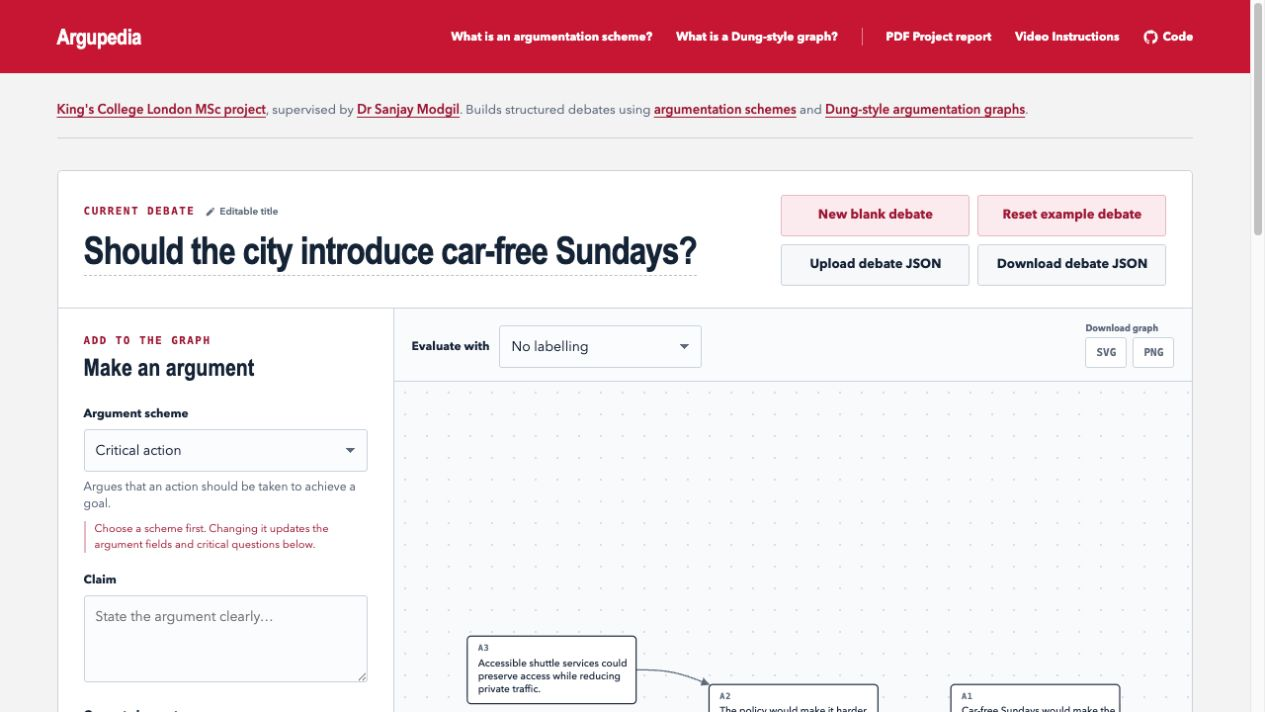
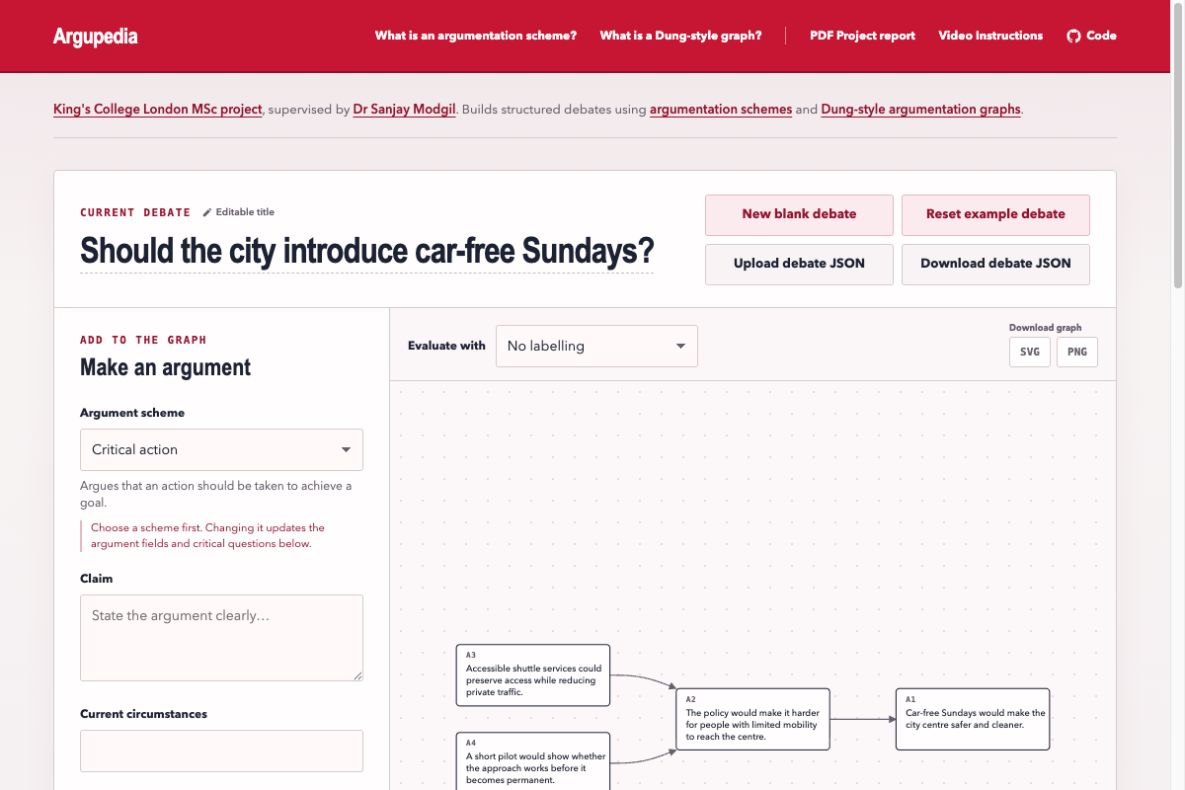
Warm the Argupedia visual palette

diff --git a/src/styles.css b/src/styles.css
@@ -1,11 +1,11 @@
 :root {
-  --paper: #f3f3f3;
-  --white: #ffffff;
-  --ink: #152238;
-  --muted: #5d697c;
-  --line: #cad2dc;
+  --paper: #f5f0f1;
+  --white: #fffdfd;
+  --ink: #1c2233;
+  --muted: #675f6c;
+  --line: #dac9cd;
   --red: #c8102e;
-  --red-dark: #9f1230;
+  --red-dark: #94112d;
   --accepted: #27724b;
   --accepted-pale: #dcefe4;
   --rejected: #9b3939;
@@ -19,14 +19,14 @@
 
 * { box-sizing: border-box; }
 html { scroll-behavior: smooth; }
-body { margin: 0; color: var(--ink); background: var(--paper); font-family: var(--body); line-height: 1.5; }
+body { margin: 0; color: var(--ink); background: linear-gradient(180deg, #f0e5e8 0, #f7f3f3 310px, var(--paper) 760px); font-family: var(--body); line-height: 1.5; }
 button, input, textarea, select { font: inherit; }
 button, a { -webkit-tap-highlight-color: transparent; }
 a { color: var(--red-dark); text-decoration-thickness: 1px; text-underline-offset: 3px; }
 a:hover { color: var(--red); }
 :focus-visible { outline: 3px solid rgba(200, 16, 46, .3); outline-offset: 3px; }
 
-.site-header { min-height: 74px; display: flex; align-items: center; justify-content: space-between; gap: 30px; padding: 12px clamp(22px, 4.5vw, 70px); background: var(--red); position: relative; z-index: 20; }
+.site-header { min-height: 74px; display: flex; align-items: center; justify-content: space-between; gap: 30px; padding: 12px clamp(22px, 4.5vw, 70px); background: var(--red); border-bottom: 2px solid #8f0d28; position: relative; z-index: 20; }
 .brand-block { display: flex; align-items: center; min-width: 0; }
 .wordmark { font: 800 22px/1 var(--display); letter-spacing: -.02em; color: var(--white); text-decoration: none; }
 .wordmark:hover { color: var(--white); }
@@ -46,7 +46,7 @@ a:hover { color: var(--red); }
 .button-quiet:hover { color: var(--red-dark); border-color: var(--red); }
 .button-replace { color: var(--red-dark); background: #fbebee; border-color: #e7b7c0; }
 .button-replace:hover { color: var(--red-dark); background: #f7dce2; border-color: var(--red); }
-.button-file { color: var(--ink); background: #f7f8fa; border-color: var(--line); }
+.button-file { color: var(--ink); background: #f8f3f4; border-color: var(--line); }
 .button-file:hover { color: var(--red-dark); background: var(--white); border-color: var(--red); }
 .button-full { width: 100%; margin-top: 8px; }
 
@@ -54,7 +54,7 @@ a:hover { color: var(--red); }
 .project-context { margin: 0 0 32px; padding: 0 0 17px; color: var(--muted); border-bottom: 1px solid var(--line); font-size: 13px; }
 .project-context p { margin: 0; }
 .project-context a { font-weight: 600; }
-.debate-console { background: var(--white); border: 1px solid var(--line); border-radius: 5px; overflow: hidden; }
+.debate-console { background: var(--white); border: 1px solid var(--line); border-radius: 5px; box-shadow: 0 10px 30px rgba(112, 20, 43, .055); overflow: hidden; }
 .workspace-header { display: flex; align-items: center; justify-content: space-between; gap: 32px; padding: 24px 26px 22px; border-bottom: 1px solid var(--line); background: var(--white); }
 .workspace-header .section-label { margin-bottom: 10px; }
 .debate-title-meta { display: flex; align-items: center; gap: 10px; margin-bottom: 10px; }
@@ -72,7 +72,7 @@ a:hover { color: var(--red); }
 .panel-heading h3 { margin: 0 0 24px; font: 750 24px/1.1 var(--display); }
 .panel-heading .section-label { margin-bottom: 8px; }
 label { display: block; color: var(--ink); font-size: 12px; font-weight: 700; margin: 17px 0 7px; }
-textarea, input:not([type="checkbox"]), select { width: 100%; color: var(--ink); background: #fbfcfd; border: 1px solid var(--line); border-radius: 3px; padding: 10px 11px; font-size: 14px; }
+textarea, input:not([type="checkbox"]), select { width: 100%; color: var(--ink); background: #fff9fa; border: 1px solid var(--line); border-radius: 3px; padding: 10px 11px; font-size: 14px; }
 textarea { resize: vertical; min-height: 88px; }
 select { appearance: none; background-image: linear-gradient(45deg,transparent 50%,var(--muted) 50%),linear-gradient(135deg,var(--muted) 50%,transparent 50%); background-position: calc(100% - 16px) 50%,calc(100% - 11px) 50%; background-size: 5px 5px; background-repeat: no-repeat; padding-right: 28px; }
 .field-help { margin: 7px 0 15px; color: var(--muted); font-size: 12px; line-height: 1.45; }
@@ -81,7 +81,7 @@ select { appearance: none; background-image: linear-gradient(45deg,transparent 5
 .check-row input { margin-top: 2px; accent-color: var(--red); }
 
 .graph-panel { min-height: 690px; display: grid; grid-template-rows: auto minmax(510px, 1fr) auto; overflow: hidden; }
-.graph-toolbar { min-height: 74px; padding: 13px 18px; display: flex; align-items: end; gap: 14px; border-bottom: 1px solid var(--line); background: #fafbfd; }
+.graph-toolbar { min-height: 74px; padding: 13px 18px; display: flex; align-items: end; gap: 14px; border-bottom: 1px solid var(--line); background: #fbf6f7; }
 .graph-toolbar label { margin: 0 0 5px; }
 .semantics-control { width: auto; display: flex; align-items: center; gap: 10px; }
 .semantics-control label { margin: 0; white-space: nowrap; }
@@ -96,7 +96,7 @@ select { appearance: none; background-image: linear-gradient(45deg,transparent 5
 .graph-hint { align-self: center; margin-right: 4px; color: var(--muted); font-size: 10px; white-space: nowrap; }
 .icon-button { height: 37px; min-width: 42px; color: var(--muted); background: var(--white); border: 1px solid var(--line); border-radius: 3px; cursor: pointer; font: 700 11px/1 var(--mono); }
 .icon-button:hover { color: var(--red-dark); border-color: var(--red); }
-.graph-stage { position: relative; min-height: 510px; overflow: hidden; background-color: #f8fafc; background-image: radial-gradient(circle, #d8dee7 1px, transparent 1.1px); background-size: 22px 22px; }
+.graph-stage { position: relative; min-height: 510px; overflow: hidden; background-color: #fcf8f9; background-image: radial-gradient(circle, #ead8dc 1px, transparent 1.1px); background-size: 22px 22px; }
 #debate-graph { display: block; width: 100%; height: 100%; min-height: 510px; cursor: grab; }
 #debate-graph:active { cursor: grabbing; }
 .argument-node rect { fill: var(--white); stroke: var(--ink); stroke-width: 1.5; }
@@ -125,7 +125,7 @@ select { appearance: none; background-image: linear-gradient(45deg,transparent 5
 .inline-heading h3 { margin: 0; }
 #argument-count { color: var(--muted); font: 600 11px var(--mono); text-transform: uppercase; letter-spacing: .08em; }
 .argument-list { list-style: none; margin: 0; padding: 0; }
-.argument-list li { display: grid; grid-template-columns: 54px 1fr auto; gap: 12px; align-items: start; padding: 17px 0; border-bottom: 1px solid #e5e9ee; }
+.argument-list li { display: grid; grid-template-columns: 54px 1fr auto; gap: 12px; align-items: start; padding: 17px 0; border-bottom: 1px solid #eadfe2; }
 .argument-list li:last-child { border-bottom: 0; }
 .argument-index { color: var(--red-dark); font: 700 12px var(--mono); padding-top: 3px; }
 .argument-list p { margin: 0 0 3px; font-size: 14px; }
